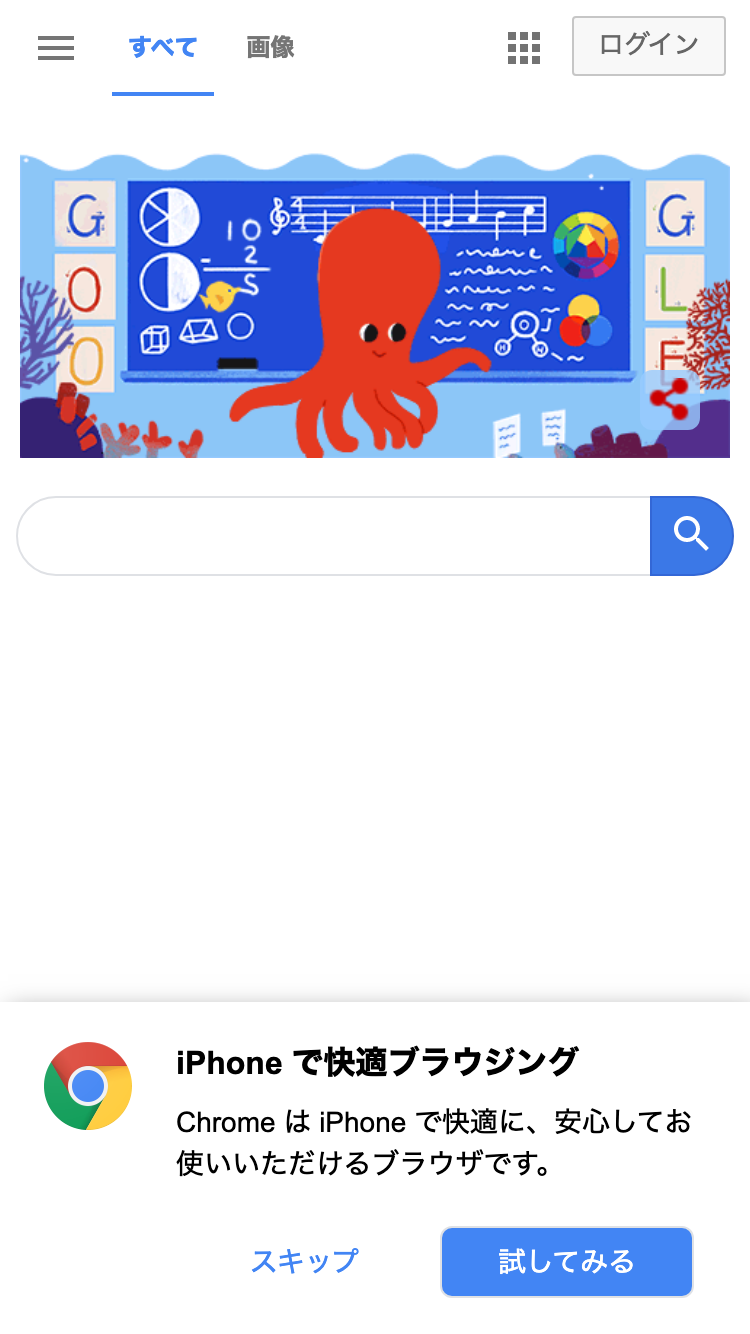
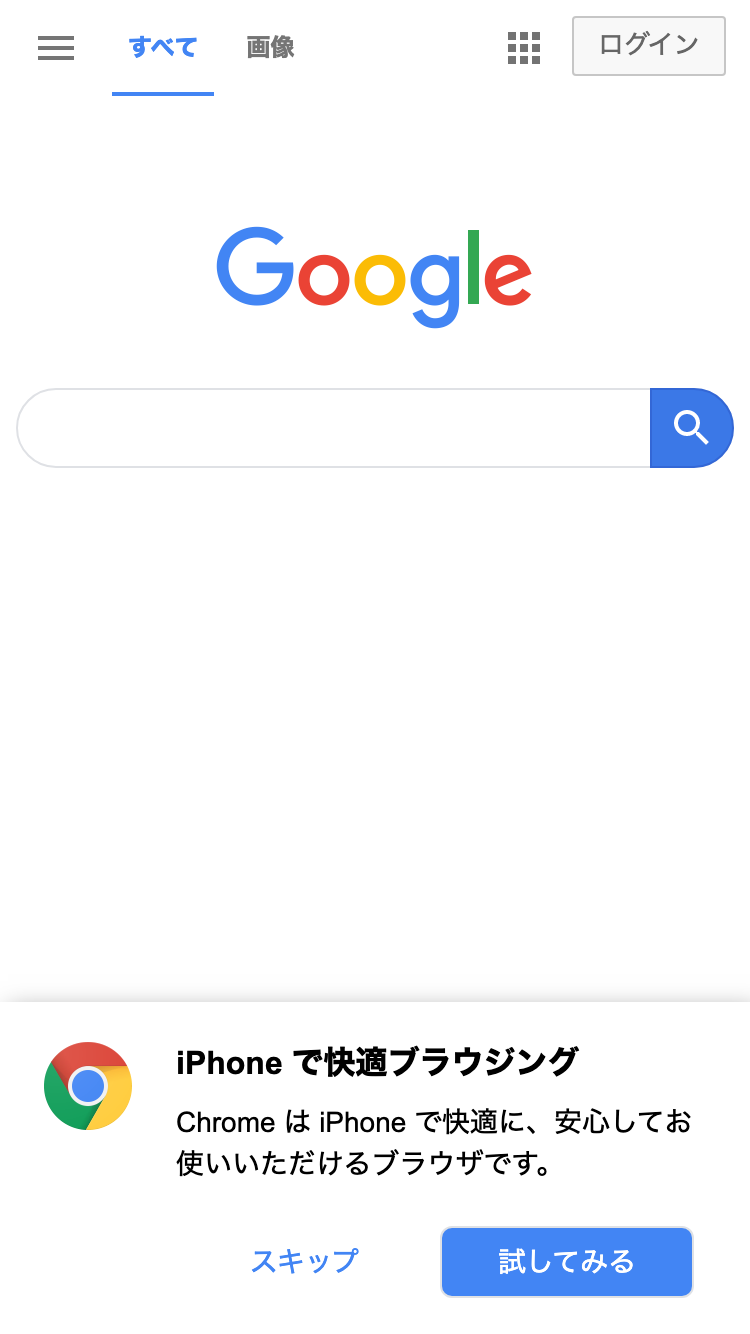
update, lang=ja

Changed region(s): [[0.0, 0.0922, 0.9813, 0.4303]]

diff --git a/example.js b/example.js
@@ -1,7 +1,7 @@
 const puppeteer = require('puppeteer');
 const iPhone = puppeteer.devices['iPhone 6'];
 
-puppeteer.launch().then(async browser => {
+puppeteer.launch({args: ['--lang=ja']}).then(async browser => {
     const page = await browser.newPage();
     await page.emulate(iPhone);
     await page.goto('https://www.google.com');
